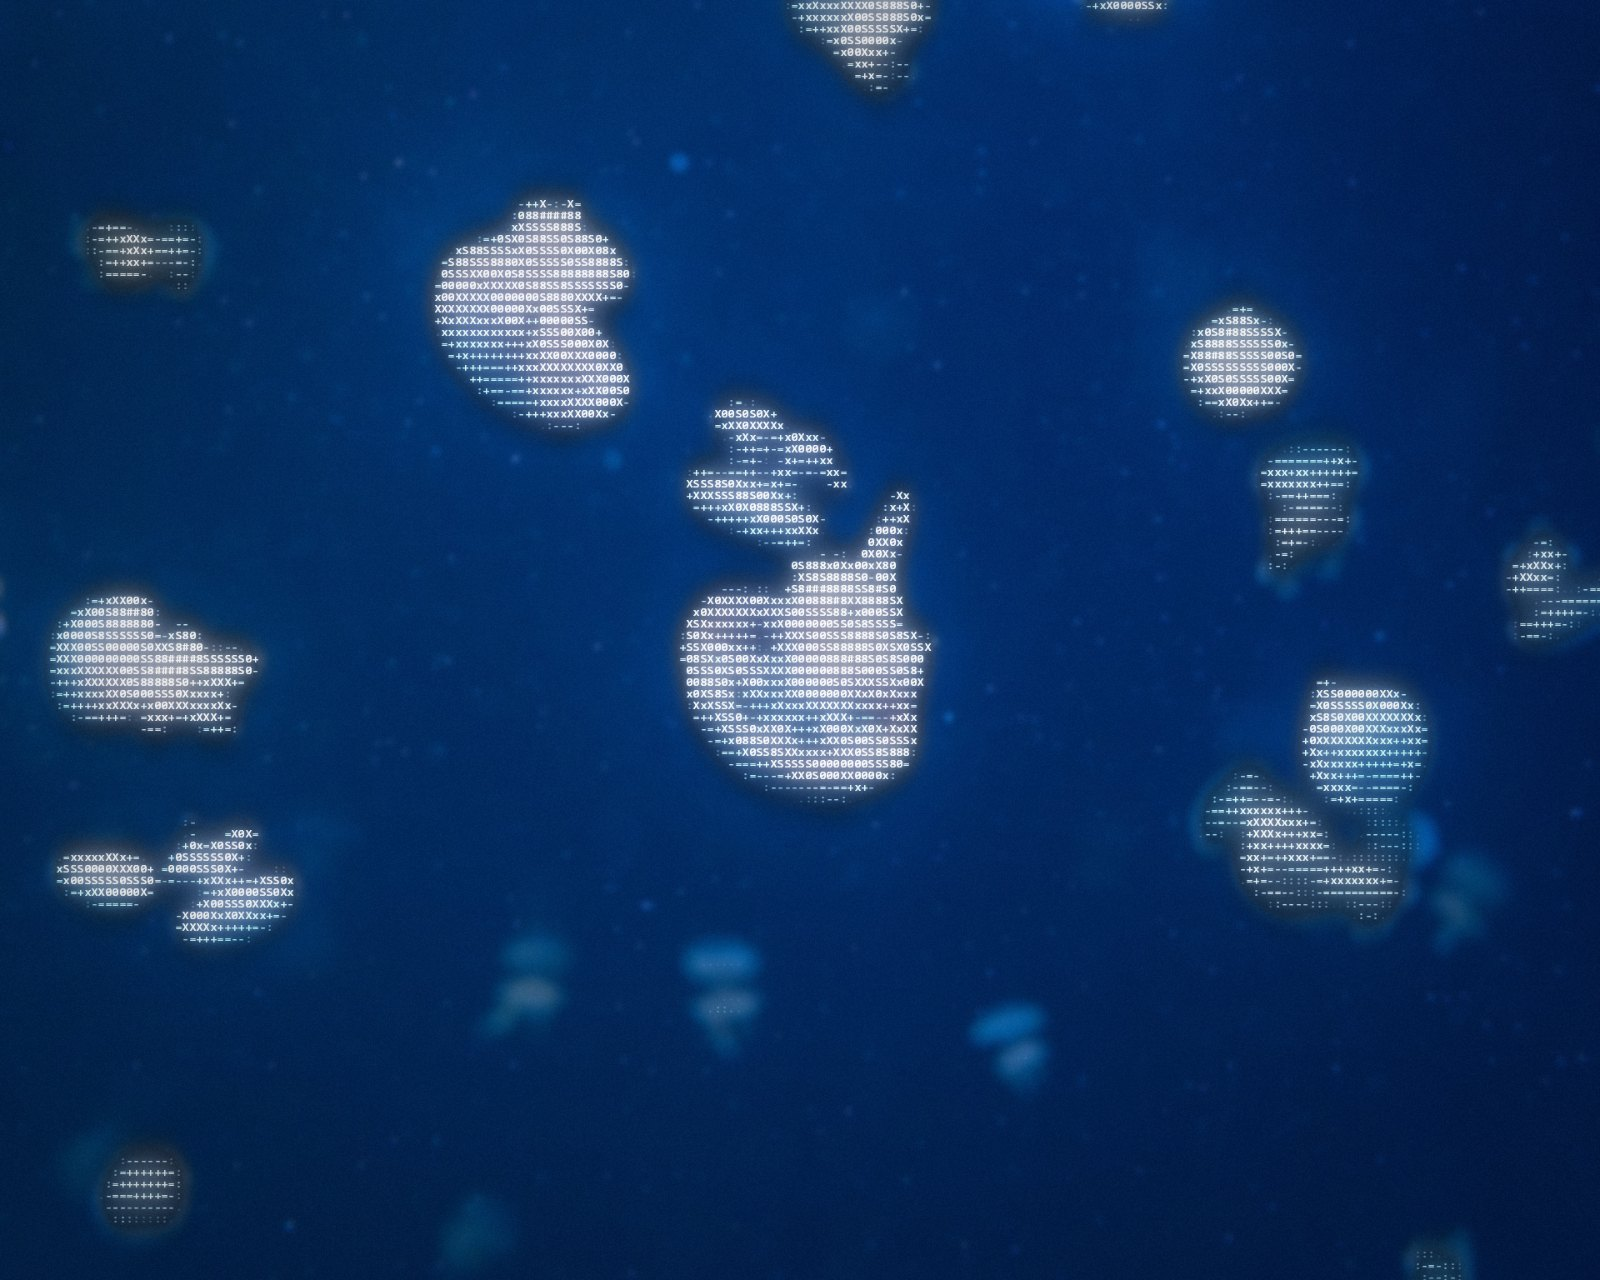
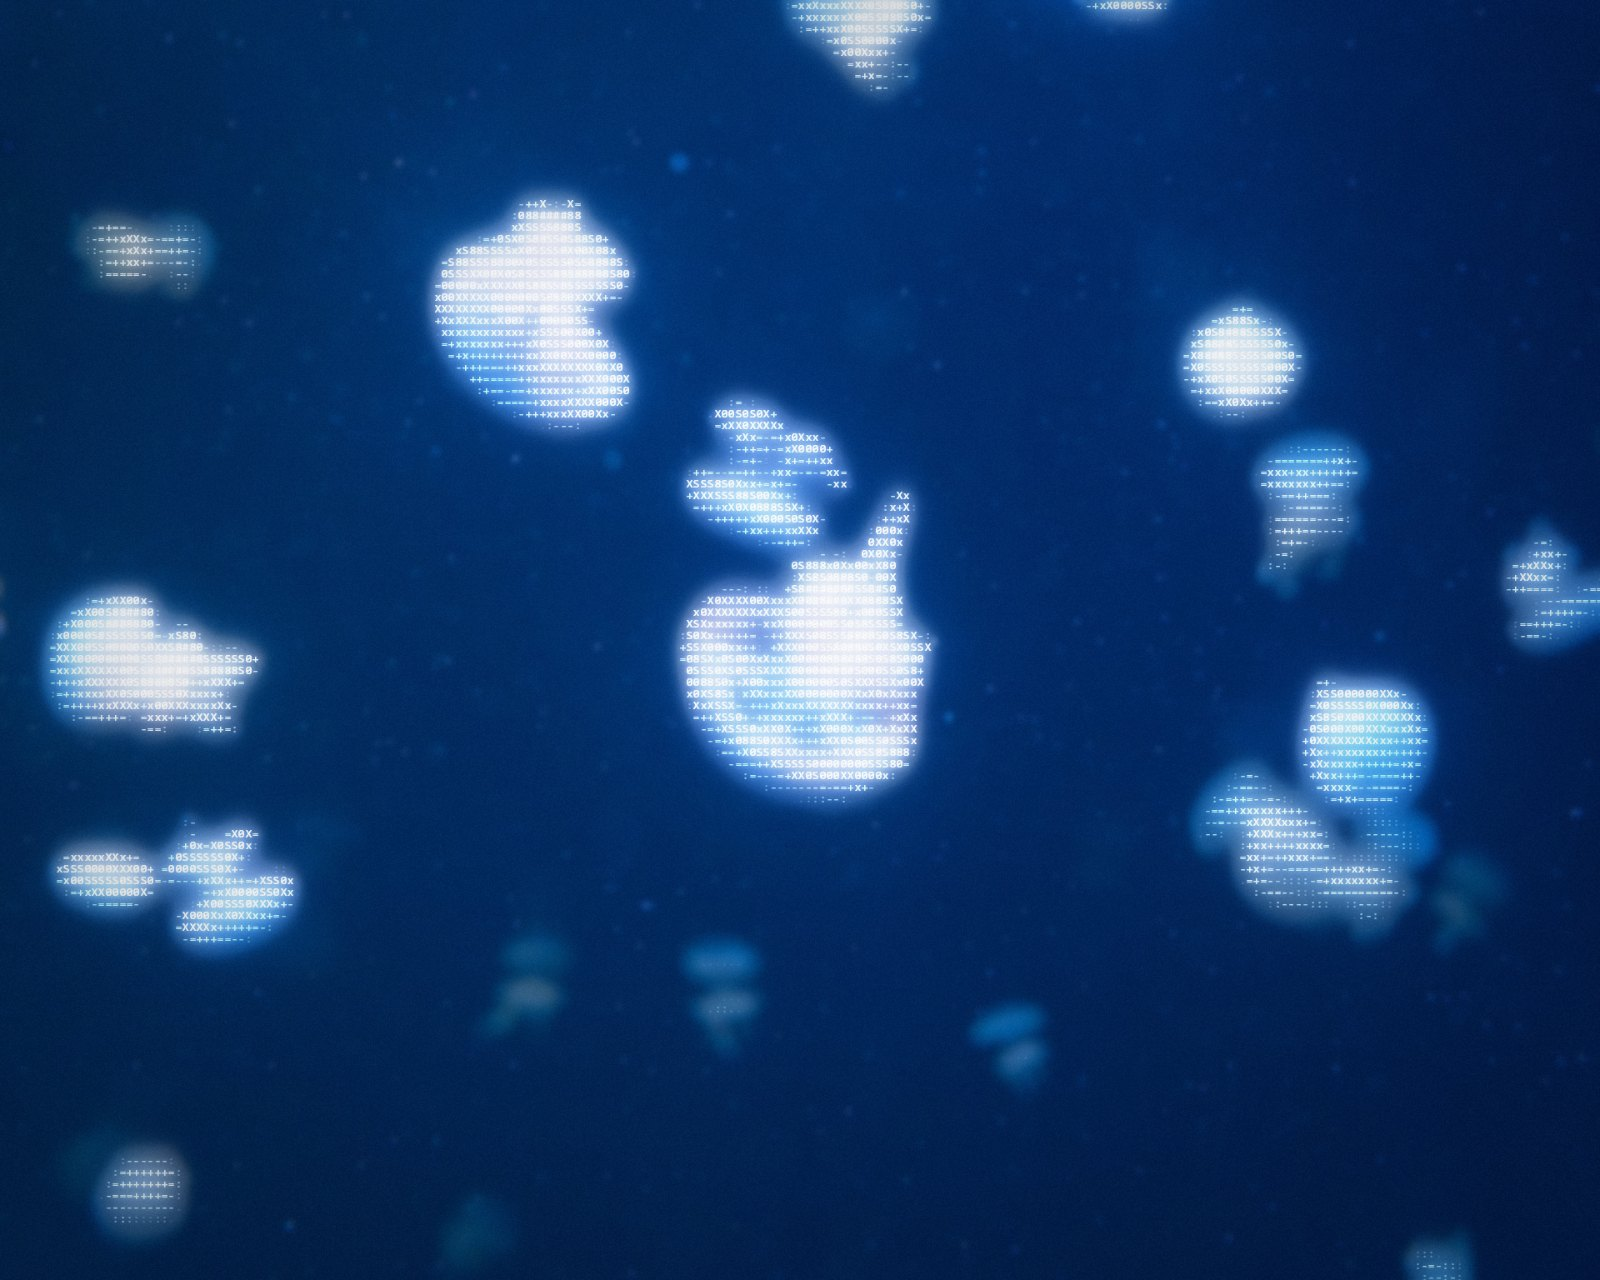
Stop soft-ascii from dimming near glyphs

diff --git a/src/engine/params.ts b/src/engine/params.ts
@@ -164,7 +164,7 @@ export const DEFAULTS: Params = {
 export const PRESETS: Record<string, { description: string; params: Partial<Params> }> = {
   'soft-ascii': {
     description: 'Glowing ASCII on the highlights, over a softened copy of the photo',
-    params: { style: 'characters', cellSize: 14, threshold: 0.32, bgBlur: 3, bgOpacity: 1, haloBlur: 14, haloDim: 0.45, bloom: 0.6, vignette: 0.2 },
+    params: { style: 'characters', cellSize: 14, threshold: 0.32, bgBlur: 3, bgOpacity: 1, haloBlur: 14, bloom: 0.6, vignette: 0.2 },
   },
   'sharp-ascii': {
     description: 'Glowing ASCII on the highlights of the sharp photo, softened and dimmed only around the glyphs',

diff --git a/README.md b/README.md
@@ -156,7 +156,7 @@ Glyph styles draw over a copy of the photo:
 
 - **Opacity** fades the whole photo toward the **Fill color** (black by default); 0 leaves only the fill.
 - **Blur** softens the whole photo.
-- **Dim near glyphs** and **Blur near glyphs** do the same only around the glyphs, so the glyphs stand out while the rest of the photo stays bright and sharp. **Spread** sets how far around the glyphs that reaches, in cells. Combine them freely: blur alone gives a glowing look, dim alone a dark outline, both a soft shadow. The highlight presets (`soft-ascii`, `sharp-ascii`, `cross`, `diagonal`, `dots`) use both, at blur 14 and dim 0.45, with the photo otherwise at full opacity.
+- **Dim near glyphs** and **Blur near glyphs** do the same only around the glyphs, so the glyphs stand out while the rest of the photo stays bright and sharp. **Spread** sets how far around the glyphs that reaches, in cells. Combine them freely: blur alone gives a glowing look, dim alone a dark outline, both a soft shadow. The highlight presets (`sharp-ascii`, `cross`, `diagonal`, `dots`) use both, at blur 14 and dim 0.45, with the photo otherwise at full opacity; `soft-ascii` uses the blur only.
 
 ## Effects
 
